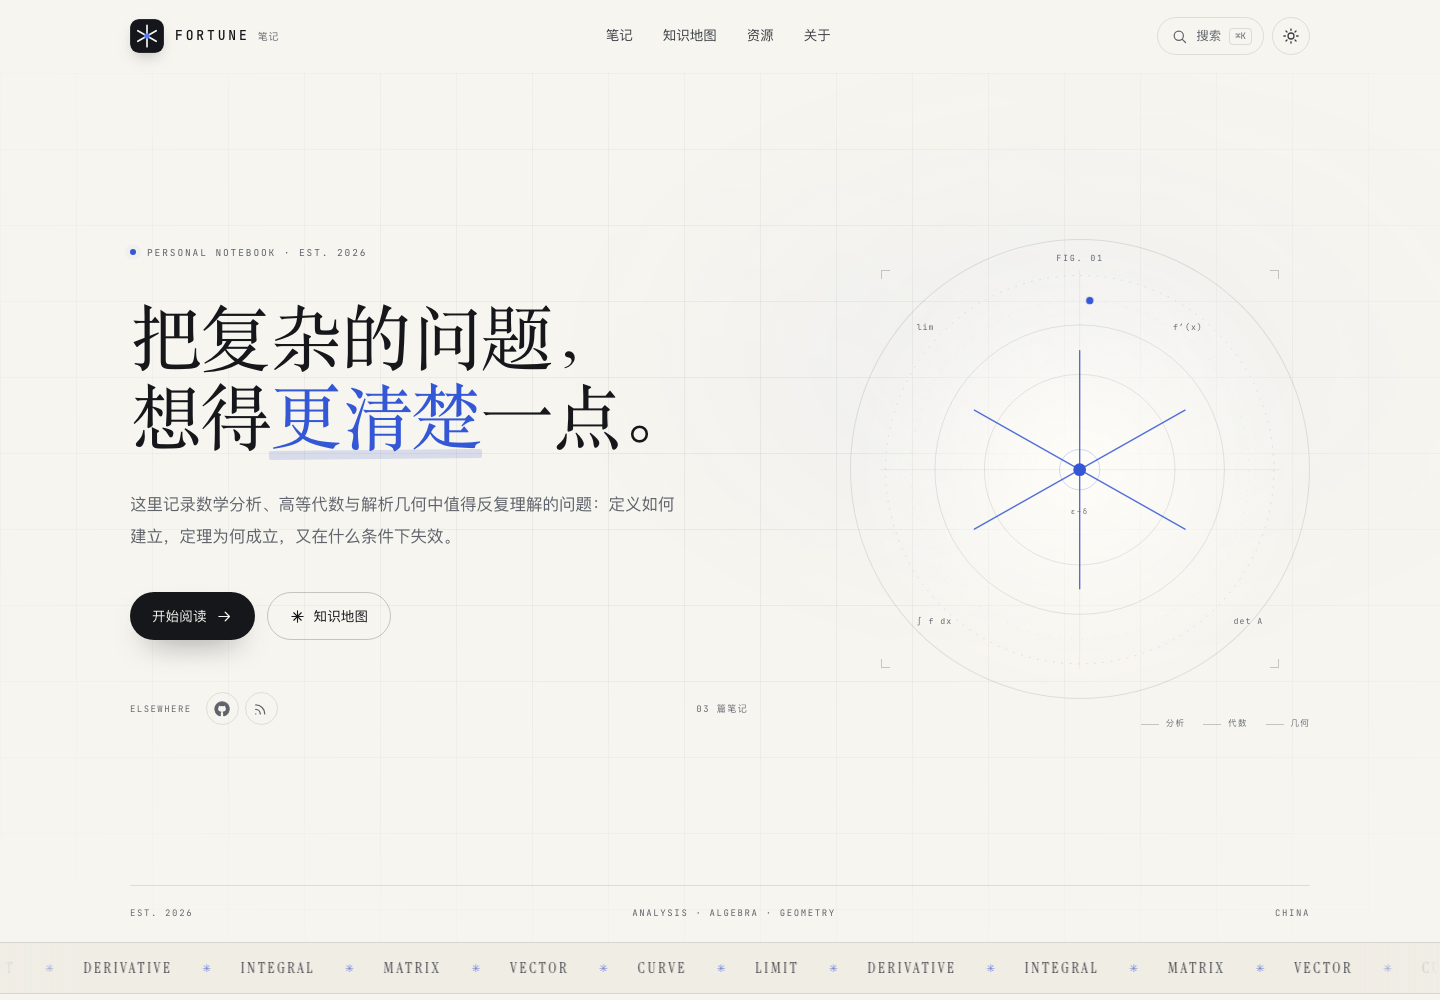
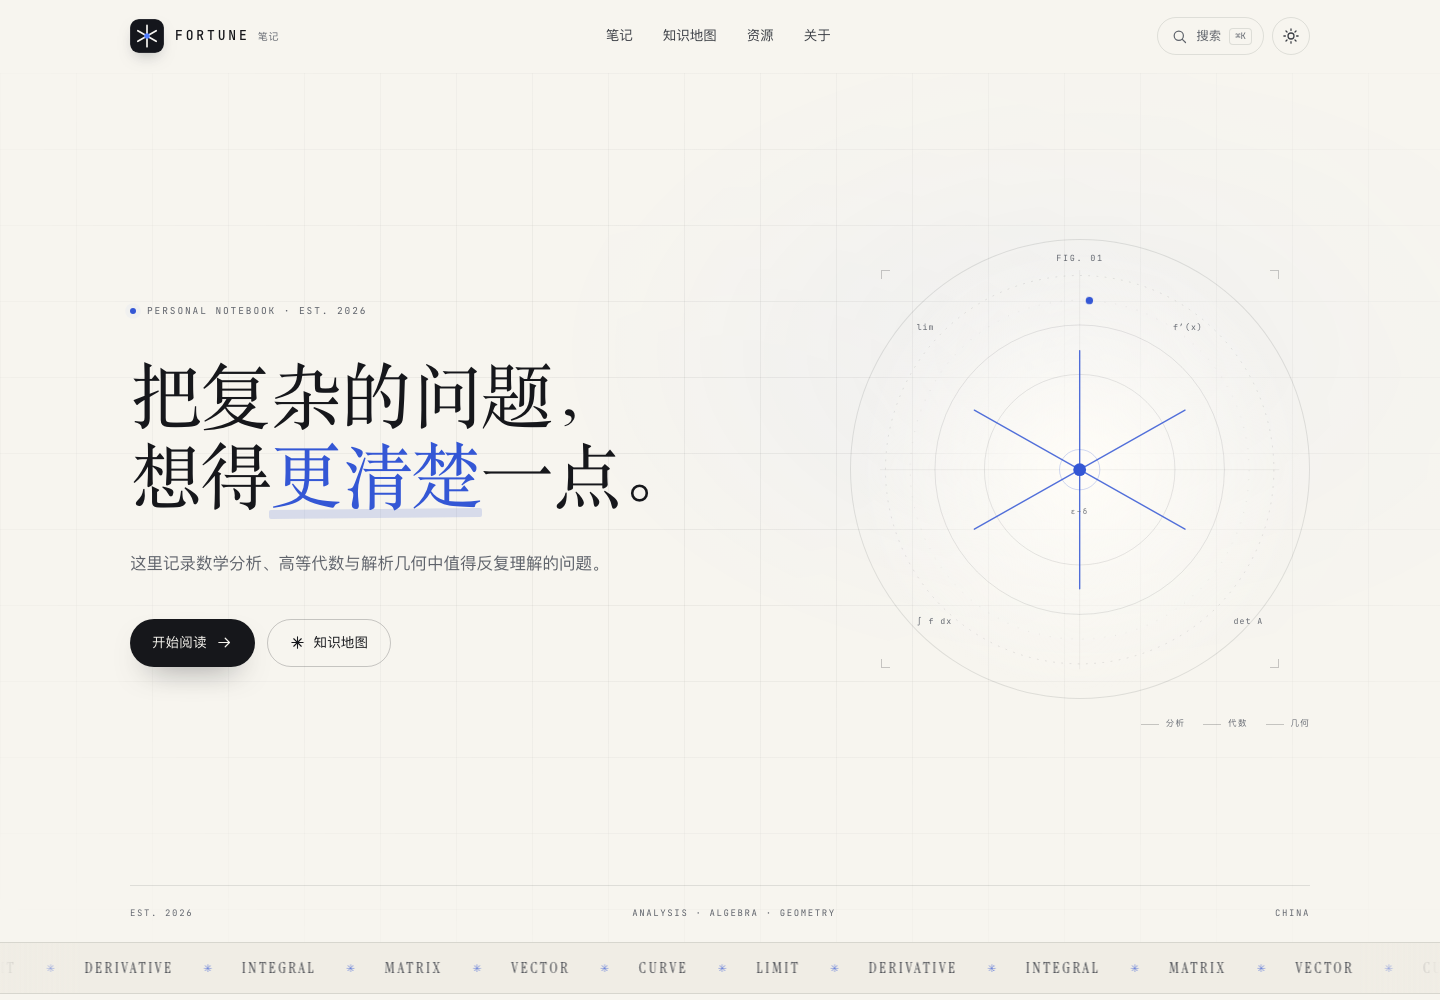
Simplify homepage and redesign footer

diff --git a/src/styles/site.css b/src/styles/site.css
@@ -525,43 +525,6 @@ svg {
   transform: translateY(-2px);
 }
 
-.hero-elsewhere {
-  display: flex;
-  align-items: center;
-  gap: 14px;
-  margin-top: clamp(34px, 4vw, 52px);
-  font-family: var(--font-mono);
-  font-size: 9px;
-  letter-spacing: 0.16em;
-  color: var(--faint);
-}
-.hero-elsewhere-label {
-  text-transform: uppercase;
-}
-.hero-socials {
-  display: flex;
-  align-items: center;
-  gap: 6px;
-}
-.hero-social {
-  display: grid;
-  place-items: center;
-  width: 33px;
-  height: 33px;
-  border: 1px solid var(--line);
-  border-radius: 50%;
-  color: var(--muted);
-  transition: color 0.2s, border-color 0.2s, transform 0.2s;
-}
-.hero-social:hover {
-  color: var(--accent);
-  border-color: var(--accent);
-  transform: translateY(-2px);
-}
-.hero-note-count {
-  margin-left: auto;
-  color: var(--faint);
-}
 
 .hero-art {
   position: relative;
@@ -2660,142 +2623,43 @@ body.search-open {
 .site-footer {
   position: relative;
   overflow: hidden;
-  padding: clamp(64px, 8vw, 96px) 0 0;
+  padding: clamp(56px, 7vw, 88px) 0;
   background: #14161c;
   color: #e9e7df;
 }
-.footer-top {
+.footer-minimal {
   display: flex;
   align-items: flex-end;
   justify-content: space-between;
-  gap: 48px;
-  padding-bottom: 52px;
-  border-bottom: 1px solid rgba(255, 255, 255, 0.12);
+  gap: 40px;
 }
-.footer-kicker {
-  margin: 0 0 18px;
-  font-family: var(--font-mono);
-  font-size: 8.5px;
-  letter-spacing: 0.2em;
-  color: #8a8f99;
-}
-.footer-title {
+.footer-signature {
   margin: 0;
   font-family: var(--font-serif);
-  font-size: clamp(40px, 5.4vw, 64px);
+  font-size: clamp(42px, 7vw, 96px);
   font-weight: 400;
-  line-height: 1.1;
-  letter-spacing: -0.01em;
+  line-height: 0.86;
+  letter-spacing: -0.03em;
+  white-space: nowrap;
 }
-.footer-title em {
-  font-style: normal;
-  color: #7d9bff;
-}
-.footer-contact {
-  text-align: right;
-}
-.footer-contact p {
-  margin: 0 0 8px;
-  font-size: 11.5px;
-  color: #8e93a0;
-}
-.footer-mail {
-  display: inline-flex;
-  align-items: center;
-  gap: 8px;
-  padding-bottom: 4px;
-  border-bottom: 1px solid rgba(255, 255, 255, 0.25);
-  font-size: 17px;
-  color: #f0eee7;
-}
-.footer-mail:hover {
-  border-color: #7d9bff;
-  color: #7d9bff;
-}
-.footer-grid {
-  display: grid;
-  grid-template-columns: 1.6fr 0.7fr 0.7fr 1fr;
-  gap: 40px;
-  padding: 50px 0;
-  border-bottom: 1px solid rgba(255, 255, 255, 0.1);
-}
-.footer-brand p {
-  max-width: 30em;
-  margin: 16px 0;
-  font-size: 12px;
-  line-height: 1.8;
-  color: #969ba7;
-}
-.footer-est {
-  font-family: var(--font-mono);
-  font-size: 8px;
-  letter-spacing: 0.13em;
-  color: #8a8f99;
-  text-transform: uppercase;
-}
-.footer-col {
+.footer-updated {
   display: flex;
   flex-direction: column;
-  gap: 7px;
-}
-.footer-label {
-  margin: 0 0 6px;
+  align-items: flex-end;
+  gap: 8px;
+  margin: 0 0 5px;
   font-family: var(--font-mono);
   font-size: 8px;
   letter-spacing: 0.18em;
   color: #8a8f99;
   text-transform: uppercase;
 }
-.footer-col a {
-  width: fit-content;
-  font-size: 12px;
-  color: #a8adb8;
-}
-.footer-col a:hover {
-  color: #fff;
-}
-.footer-note p {
-  margin: 0;
-  font-size: 11.5px;
-  line-height: 1.75;
-  color: #8e93a0;
-}
-.footer-source {
-  display: inline-flex;
-  align-items: center;
-  gap: 5px;
-  margin-top: 6px;
-}
-.footer-bottom {
-  display: flex;
-  justify-content: space-between;
-  gap: 20px;
-  padding: 20px 0;
-  font-family: var(--font-mono);
-  font-size: 8.5px;
-  letter-spacing: 0.05em;
-  color: #8a8f99;
-}
-.footer-top-link {
-  display: flex;
-  align-items: center;
-  gap: 5px;
-}
-.footer-top-link:hover {
-  color: #fff;
-}
-.footer-wordmark {
-  margin: 0;
-  padding-top: 4px;
+.footer-updated time {
   font-family: var(--font-serif);
-  font-size: clamp(90px, 18vw, 230px);
-  line-height: 0.82;
+  font-size: 22px;
   letter-spacing: 0.02em;
-  text-align: center;
-  color: transparent;
-  -webkit-text-stroke: 1px rgba(255, 255, 255, 0.13);
-  user-select: none;
-  pointer-events: none;
+  text-transform: none;
+  color: #e9e7df;
 }
 
 /* --------------------------------------------------------------------------
@@ -2875,10 +2739,6 @@ body.search-open {
   .post-grid {
     grid-template-columns: 210px minmax(0, 1fr);
     gap: 48px;
-  }
-  .footer-grid {
-    grid-template-columns: 1.4fr 0.7fr 0.7fr 1fr;
-    gap: 28px;
   }
 }
 
@@ -3009,20 +2869,6 @@ body.search-open {
   .closing-stats {
     padding-top: 8px;
   }
-  .footer-top {
-    flex-direction: column;
-    align-items: flex-start;
-    gap: 28px;
-  }
-  .footer-contact {
-    text-align: left;
-  }
-  .footer-grid {
-    grid-template-columns: 1.4fr 1fr 1fr;
-  }
-  .footer-note {
-    grid-column: 1 / -1;
-  }
   .post-grid {
     grid-template-columns: minmax(0, 1fr);
     grid-template-areas: "side" "main";
@@ -3090,12 +2936,15 @@ body.search-open {
     font-size: 14px;
     line-height: 1.9;
   }
-  .hero-elsewhere {
-    flex-wrap: wrap;
-    margin-top: 30px;
+  .footer-minimal {
+    align-items: flex-end;
+    gap: 16px;
   }
-  .hero-note-count {
-    margin-left: 0;
+  .footer-signature {
+    font-size: clamp(32px, 9vw, 56px);
+  }
+  .footer-updated {
+    margin: 0;
   }
   .hero-foot {
     flex-wrap: wrap;
@@ -3299,30 +3148,6 @@ body.search-open {
   .resource-group {
     padding: 36px 0;
   }
-  .footer-grid {
-    grid-template-columns: 1fr 1fr;
-    gap: 28px;
-    padding: 36px 0;
-  }
-  .footer-brand {
-    grid-column: 1 / -1;
-  }
-  .footer-note {
-    grid-column: 1 / -1;
-  }
-  .footer-bottom {
-    flex-wrap: wrap;
-    gap: 8px 16px;
-  }
-  .footer-wordmark {
-    font-size: 24vw;
-  }
-  .footer-title {
-    font-size: 40px;
-  }
-  .footer-mail {
-    font-size: 15px;
-  }
   .search-modal {
     padding: 0;
     align-items: stretch;
@@ -3373,9 +3198,6 @@ body.search-open {
   }
   .page-title {
     font-size: 52px;
-  }
-  .footer-grid {
-    grid-template-columns: 1fr;
   }
 }
 
